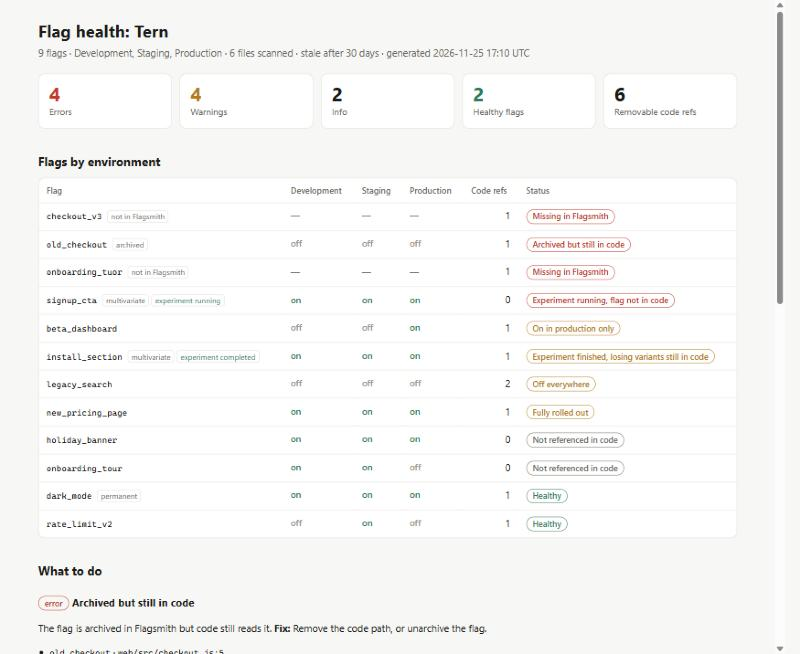
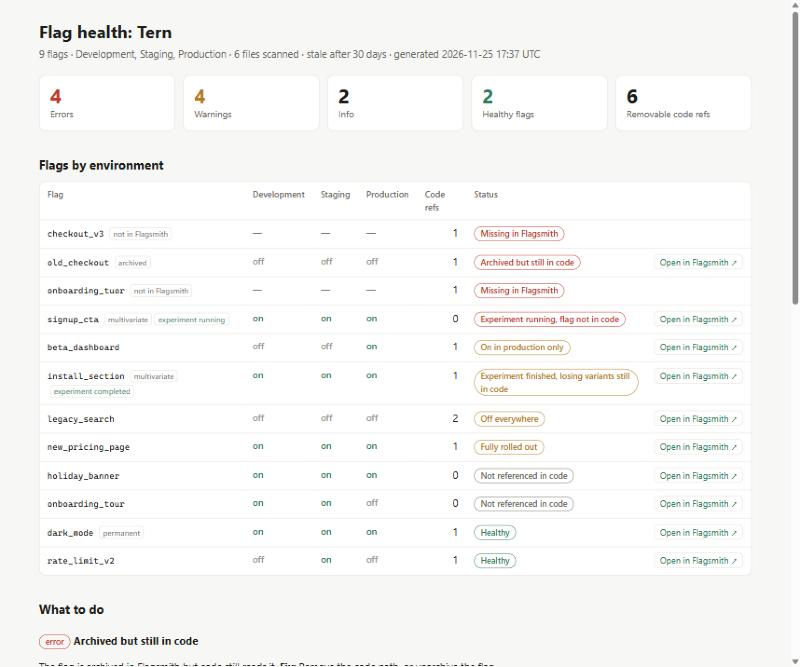
Polish the report UX: colour, wrapping, folded PR comment, Flagsmith links
- Terminal report is coloured in a TTY (red errors, yellow warnings, cyan
  paths), plain when piped or with --no-color / NO_COLOR, forced with
  FORCE_COLOR; each finding puts its detail and file refs on own lines
- PR comment keeps errors open and folds warnings and info into
  <details> sections
- Dashboard rows link to the flag in the Flagsmith UI (production env);
  UI URL derived from the API URL or set with --ui-url
- Tests for colour, folding and links (8 passing)

diff --git a/docs/flag-health.html b/docs/flag-health.html
@@ -16,25 +16,26 @@ code{font:.88em ui-monospace,"Cascadia Code",Consolas,monospace}a{color:inherit}
 .pill{display:inline-block;border-radius:999px;padding:1px 9px;font-size:.78rem;font-weight:600;border:1px solid currentColor;margin:1px 0}
 .pill.error{color:var(--err)}.pill.warn{color:var(--warn)}.pill.info{color:var(--info)}.pill.ok{color:var(--ok)}
 .tag{display:inline-block;font-size:.72rem;color:var(--muted);border:1px solid var(--line);border-radius:4px;padding:0 5px;margin-left:4px}.tag.exp{color:var(--ok)}
+a.open{font-size:.8rem;white-space:nowrap;color:var(--ok);text-decoration:none;border:1px solid var(--line);border-radius:6px;padding:2px 8px}a.open:hover{border-color:var(--ok)}
 ul{padding-left:1.1rem}li{margin:4px 0}footer{margin-top:40px;color:var(--muted);font-size:.8rem}
 </style></head><body><main>
 <h1>Flag health: Tern</h1>
-<div class="sub">9 flags · Development, Staging, Production · 6 files scanned · stale after 30 days · generated 2026-11-25 17:21 UTC</div>
+<div class="sub">9 flags · Development, Staging, Production · 6 files scanned · stale after 30 days · generated 2026-11-25 17:37 UTC</div>
 <div class="cards"><div class="card error"><b>4</b><span>Errors</span></div><div class="card warn"><b>4</b><span>Warnings</span></div><div class="card info"><b>2</b><span>Info</span></div><div class="card ok"><b>2</b><span>Healthy flags</span></div><div class="card neutral"><b>6</b><span>Removable code refs</span></div></div>
 <h2>Flags by environment</h2>
-<div class="tablewrap"><table><thead><tr><th>Flag</th><th>Development</th><th>Staging</th><th>Production</th><th>Code refs</th><th>Status</th></tr></thead>
-<tbody><tr><td><code>checkout_v3</code> <span class="tag">not in Flagsmith</span></td><td class="state none">—</td><td class="state none">—</td><td class="state none">—</td><td class="num">1</td><td><span class="pill error">Missing in Flagsmith</span></td></tr>
-<tr><td><code>old_checkout</code> <span class="tag">archived</span></td><td class="state off">off</td><td class="state off">off</td><td class="state off">off</td><td class="num">1</td><td><span class="pill error">Archived but still in code</span></td></tr>
-<tr><td><code>onboarding_tuor</code> <span class="tag">not in Flagsmith</span></td><td class="state none">—</td><td class="state none">—</td><td class="state none">—</td><td class="num">1</td><td><span class="pill error">Missing in Flagsmith</span></td></tr>
-<tr><td><code>signup_cta</code> <span class="tag">multivariate</span><span class="tag exp">experiment running</span></td><td class="state on">on</td><td class="state on">on</td><td class="state on">on</td><td class="num">0</td><td><span class="pill error">Experiment running, flag not in code</span></td></tr>
-<tr><td><code>beta_dashboard</code> </td><td class="state off">off</td><td class="state off">off</td><td class="state on">on</td><td class="num">1</td><td><span class="pill warn">On in production only</span></td></tr>
-<tr><td><code>install_section</code> <span class="tag">multivariate</span><span class="tag exp">experiment completed</span></td><td class="state on">on</td><td class="state on">on</td><td class="state on">on</td><td class="num">1</td><td><span class="pill warn">Experiment finished, losing variants still in code</span></td></tr>
-<tr><td><code>legacy_search</code> </td><td class="state off">off</td><td class="state off">off</td><td class="state off">off</td><td class="num">2</td><td><span class="pill warn">Off everywhere</span></td></tr>
-<tr><td><code>new_pricing_page</code> </td><td class="state on">on</td><td class="state on">on</td><td class="state on">on</td><td class="num">1</td><td><span class="pill warn">Fully rolled out</span></td></tr>
-<tr><td><code>holiday_banner</code> </td><td class="state on">on</td><td class="state on">on</td><td class="state on">on</td><td class="num">0</td><td><span class="pill info">Not referenced in code</span></td></tr>
-<tr><td><code>onboarding_tour</code> </td><td class="state on">on</td><td class="state on">on</td><td class="state off">off</td><td class="num">0</td><td><span class="pill info">Not referenced in code</span></td></tr>
-<tr><td><code>dark_mode</code> <span class="tag">permanent</span></td><td class="state on">on</td><td class="state on">on</td><td class="state on">on</td><td class="num">1</td><td><span class="pill ok">Healthy</span></td></tr>
-<tr><td><code>rate_limit_v2</code> </td><td class="state off">off</td><td class="state on">on</td><td class="state off">off</td><td class="num">1</td><td><span class="pill ok">Healthy</span></td></tr></tbody></table></div>
+<div class="tablewrap"><table><thead><tr><th>Flag</th><th>Development</th><th>Staging</th><th>Production</th><th>Code refs</th><th>Status</th><th></th></tr></thead>
+<tbody><tr><td><code>checkout_v3</code> <span class="tag">not in Flagsmith</span></td><td class="state none">—</td><td class="state none">—</td><td class="state none">—</td><td class="num">1</td><td><span class="pill error">Missing in Flagsmith</span></td><td></td></tr>
+<tr><td><code>old_checkout</code> <span class="tag">archived</span></td><td class="state off">off</td><td class="state off">off</td><td class="state off">off</td><td class="num">1</td><td><span class="pill error">Archived but still in code</span></td><td><a class="open" href="http://localhost:8000/project/6/environment/j6w8tkBKnYKdBP7SHC8r7v/features?feature=56" target="_blank" rel="noopener" title="Open in Flagsmith (Production)">Open in Flagsmith ↗</a></td></tr>
+<tr><td><code>onboarding_tuor</code> <span class="tag">not in Flagsmith</span></td><td class="state none">—</td><td class="state none">—</td><td class="state none">—</td><td class="num">1</td><td><span class="pill error">Missing in Flagsmith</span></td><td></td></tr>
+<tr><td><code>signup_cta</code> <span class="tag">multivariate</span><span class="tag exp">experiment running</span></td><td class="state on">on</td><td class="state on">on</td><td class="state on">on</td><td class="num">0</td><td><span class="pill error">Experiment running, flag not in code</span></td><td><a class="open" href="http://localhost:8000/project/6/environment/j6w8tkBKnYKdBP7SHC8r7v/features?feature=50" target="_blank" rel="noopener" title="Open in Flagsmith (Production)">Open in Flagsmith ↗</a></td></tr>
+<tr><td><code>beta_dashboard</code> </td><td class="state off">off</td><td class="state off">off</td><td class="state on">on</td><td class="num">1</td><td><span class="pill warn">On in production only</span></td><td><a class="open" href="http://localhost:8000/project/6/environment/j6w8tkBKnYKdBP7SHC8r7v/features?feature=55" target="_blank" rel="noopener" title="Open in Flagsmith (Production)">Open in Flagsmith ↗</a></td></tr>
+<tr><td><code>install_section</code> <span class="tag">multivariate</span><span class="tag exp">experiment completed</span></td><td class="state on">on</td><td class="state on">on</td><td class="state on">on</td><td class="num">1</td><td><span class="pill warn">Experiment finished, losing variants still in code</span></td><td><a class="open" href="http://localhost:8000/project/6/environment/j6w8tkBKnYKdBP7SHC8r7v/features?feature=49" target="_blank" rel="noopener" title="Open in Flagsmith (Production)">Open in Flagsmith ↗</a></td></tr>
+<tr><td><code>legacy_search</code> </td><td class="state off">off</td><td class="state off">off</td><td class="state off">off</td><td class="num">2</td><td><span class="pill warn">Off everywhere</span></td><td><a class="open" href="http://localhost:8000/project/6/environment/j6w8tkBKnYKdBP7SHC8r7v/features?feature=54" target="_blank" rel="noopener" title="Open in Flagsmith (Production)">Open in Flagsmith ↗</a></td></tr>
+<tr><td><code>new_pricing_page</code> </td><td class="state on">on</td><td class="state on">on</td><td class="state on">on</td><td class="num">1</td><td><span class="pill warn">Fully rolled out</span></td><td><a class="open" href="http://localhost:8000/project/6/environment/j6w8tkBKnYKdBP7SHC8r7v/features?feature=53" target="_blank" rel="noopener" title="Open in Flagsmith (Production)">Open in Flagsmith ↗</a></td></tr>
+<tr><td><code>holiday_banner</code> </td><td class="state on">on</td><td class="state on">on</td><td class="state on">on</td><td class="num">0</td><td><span class="pill info">Not referenced in code</span></td><td><a class="open" href="http://localhost:8000/project/6/environment/j6w8tkBKnYKdBP7SHC8r7v/features?feature=57" target="_blank" rel="noopener" title="Open in Flagsmith (Production)">Open in Flagsmith ↗</a></td></tr>
+<tr><td><code>onboarding_tour</code> </td><td class="state on">on</td><td class="state on">on</td><td class="state off">off</td><td class="num">0</td><td><span class="pill info">Not referenced in code</span></td><td><a class="open" href="http://localhost:8000/project/6/environment/j6w8tkBKnYKdBP7SHC8r7v/features?feature=58" target="_blank" rel="noopener" title="Open in Flagsmith (Production)">Open in Flagsmith ↗</a></td></tr>
+<tr><td><code>dark_mode</code> <span class="tag">permanent</span></td><td class="state on">on</td><td class="state on">on</td><td class="state on">on</td><td class="num">1</td><td><span class="pill ok">Healthy</span></td><td><a class="open" href="http://localhost:8000/project/6/environment/j6w8tkBKnYKdBP7SHC8r7v/features?feature=52" target="_blank" rel="noopener" title="Open in Flagsmith (Production)">Open in Flagsmith ↗</a></td></tr>
+<tr><td><code>rate_limit_v2</code> </td><td class="state off">off</td><td class="state on">on</td><td class="state off">off</td><td class="num">1</td><td><span class="pill ok">Healthy</span></td><td><a class="open" href="http://localhost:8000/project/6/environment/j6w8tkBKnYKdBP7SHC8r7v/features?feature=51" target="_blank" rel="noopener" title="Open in Flagsmith (Production)">Open in Flagsmith ↗</a></td></tr></tbody></table></div>
 <h2>What to do</h2>
 <section><h3><span class="pill error">error</span> Archived but still in code</h3>
 <p>The flag is archived in Flagsmith but code still reads it. <b>Fix:</b> Remove the code path, or unarchive the flag.</p><ul>

diff --git a/README.md b/README.md
@@ -18,7 +18,7 @@ Build on Open Source Flagsmith**. Developed and tested against **self-hosted Fla
 
 - **CLI**: `npx github:Athiban-32/flag-debt`, with no dependencies
 - **GitHub Action**: a sticky PR comment with links to the exact lines, and a check that can block merges
-- **Flag health dashboard**: one self-contained HTML page per run
+- **Flag health dashboard**: one self-contained HTML page per run, with an "Open in Flagsmith" link on every flag
 - **One-command self-hosted demo**: `npm run quickstart`
 
 ![Flag health dashboard](docs/dashboard.jpg)
@@ -132,6 +132,8 @@ npx github:Athiban-32/flag-debt --src . --format html --output flag-health.html
 | `--output <file>` | | Also write the report to a file |
 | `--fail-on error\|warn\|none` | `none` | Exit 1 when findings at this level exist |
 | `--comment` | | Post or update the PR comment (in GitHub Actions) |
+| `--ui-url <url>` | from the API URL | Flagsmith dashboard used for "Open in Flagsmith" links |
+| `--no-color` | colour in a terminal | Plain output (`NO_COLOR` and `FORCE_COLOR` are respected too) |
 
 ### GitHub Action
 
